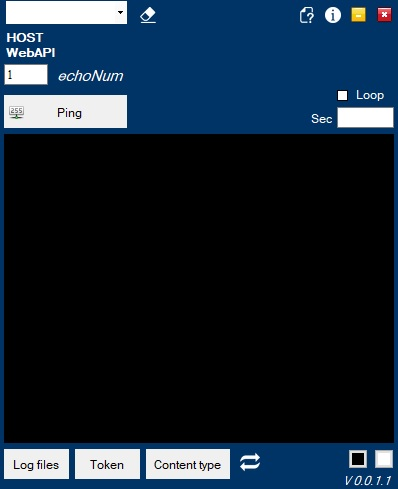
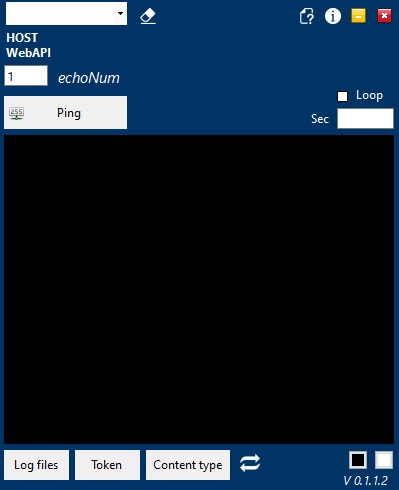
add

diff --git a/index.html b/index.html
@@ -325,9 +325,9 @@ Licensed by https://creativecommons.org/licenses/by/3.0/ ©
           <tr>
             <td>Windows 8, 10</td>
             <td>x64</td>
-            <td>186 kb</td>
-            <td>864 kb</td>
-            <td>0.0.1.1</td>
+            <td>185 kb</td>
+            <td>867 kb</td>
+            <td>0.1.1.2</td>
             <td id="downloadCounterPingNet"></td>
           </tr>
         </table>
@@ -344,6 +344,11 @@ Licensed by https://creativecommons.org/licenses/by/3.0/ ©
             <td>0.0.1.1</td>
             <td>Nov 07, 2020</td>
             <td>Launch.</td>
+          </tr>
+          <tr>
+            <td>0.1.1.2</td>
+            <td>Mar 07, 2021</td>
+            <td>Bugs fixed related to text fields.Source code optimized to improve PingNet.</td>
           </tr>
         </table>
         </p>
